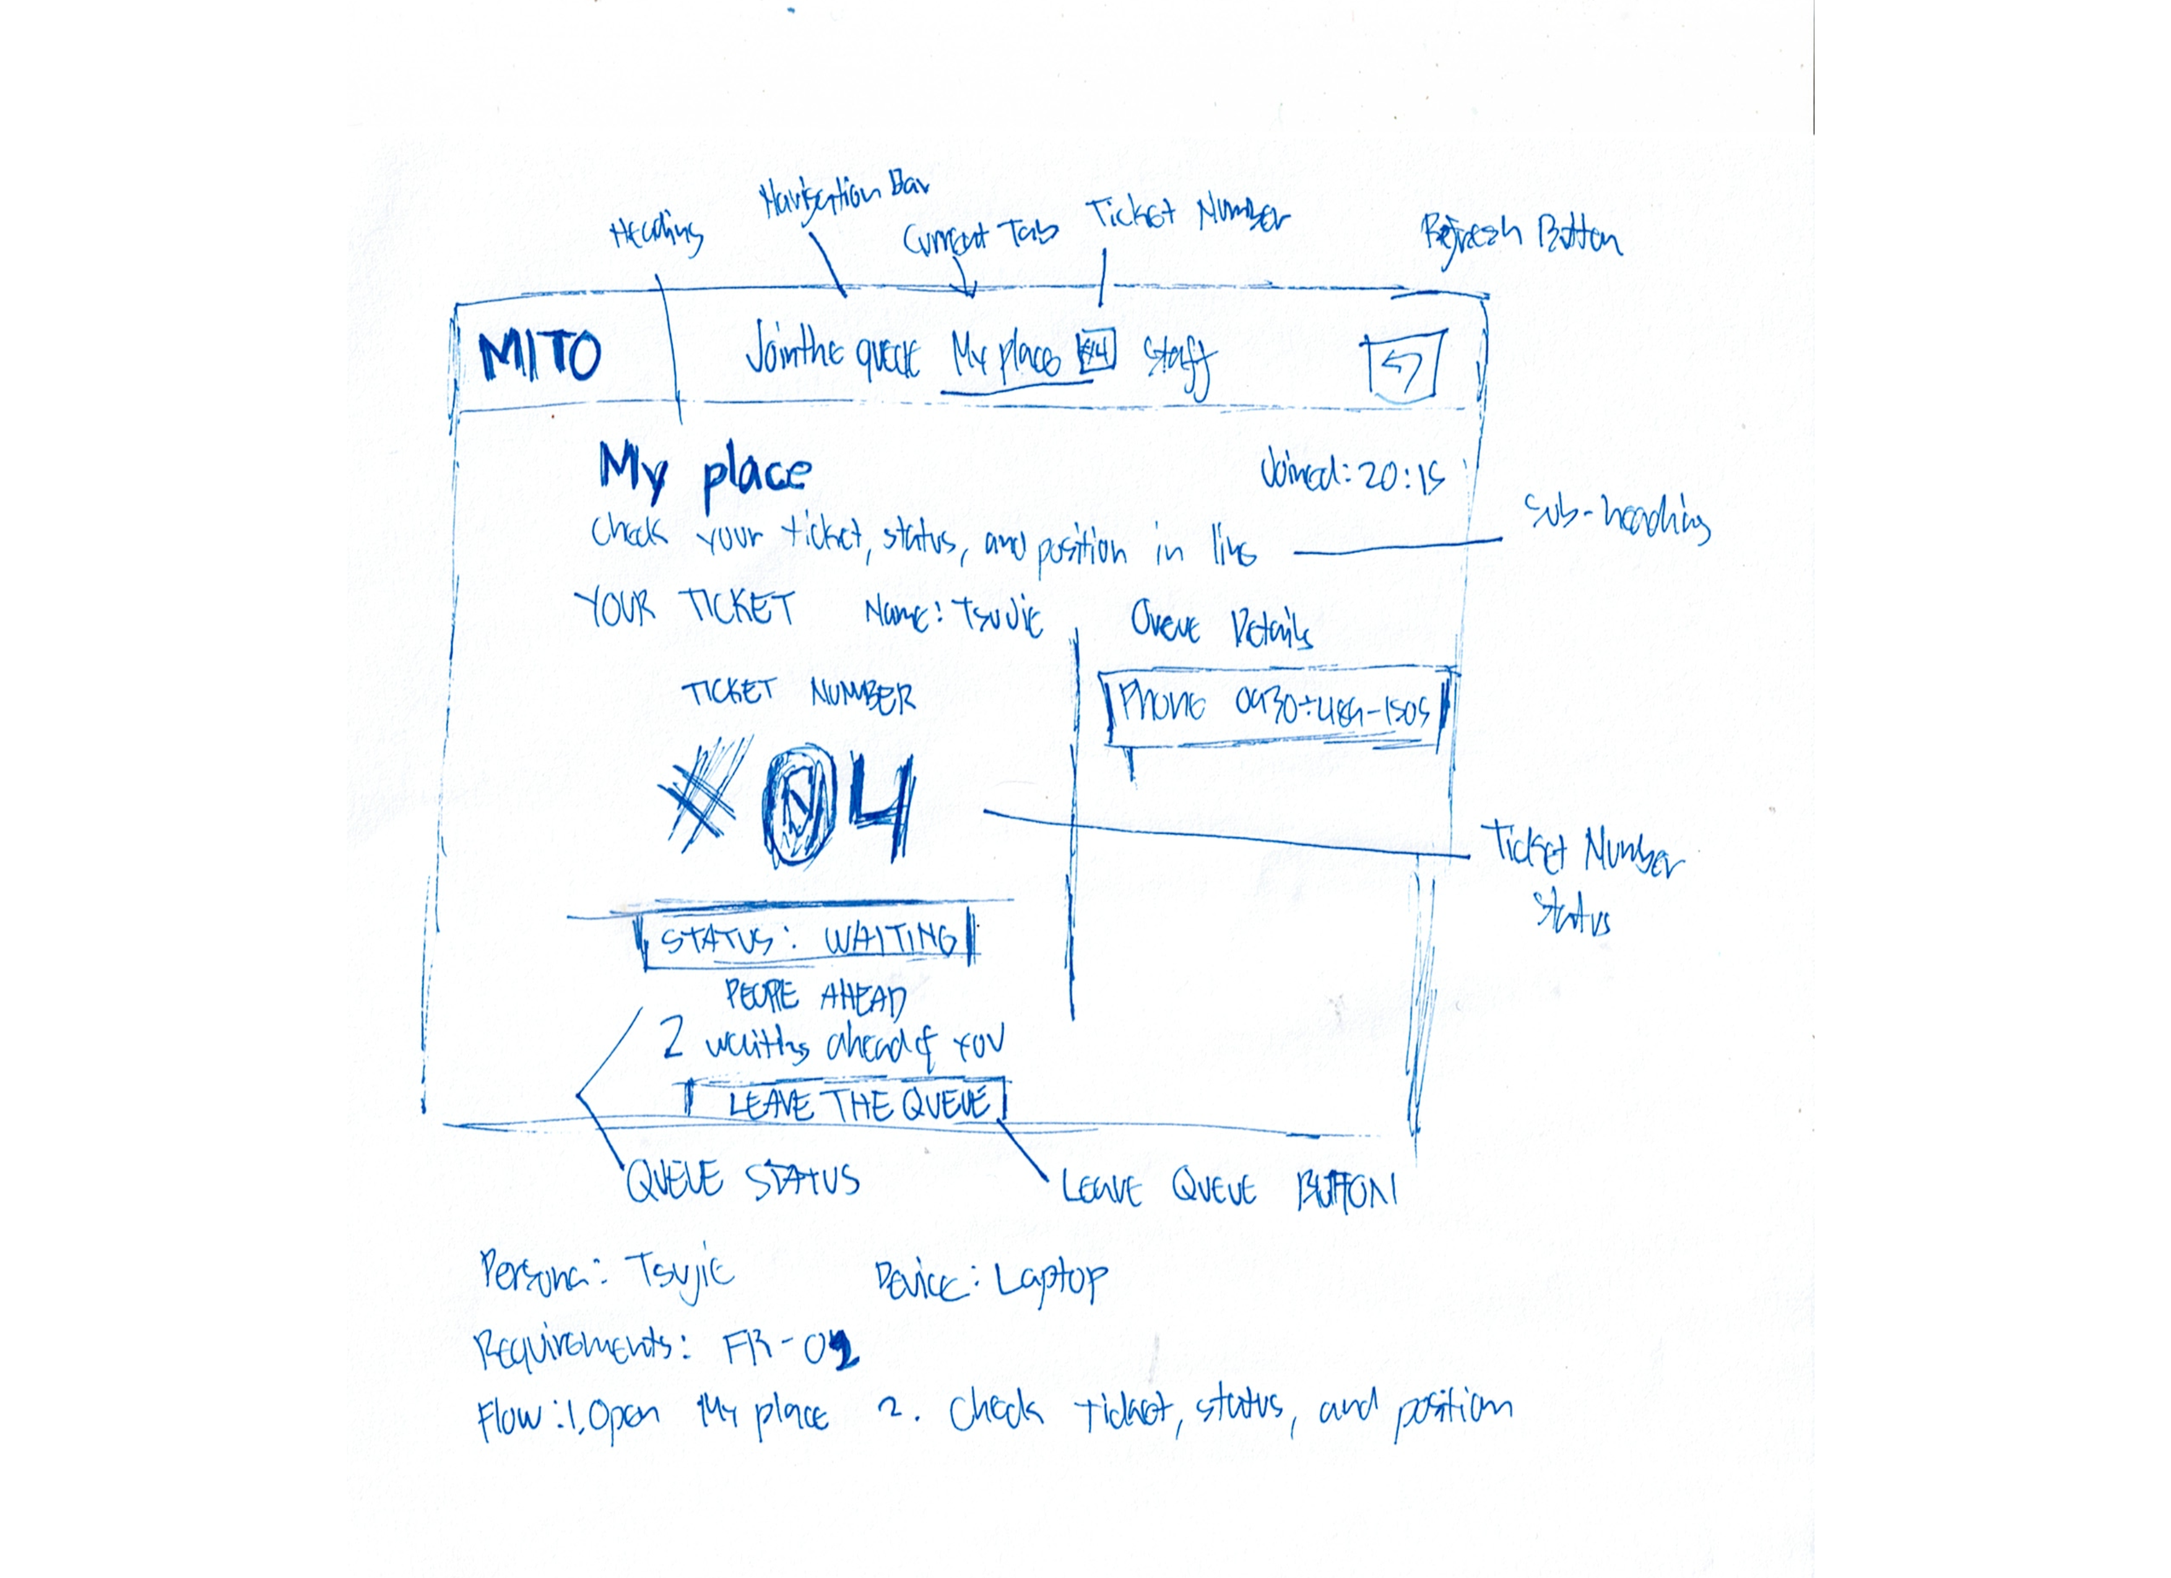
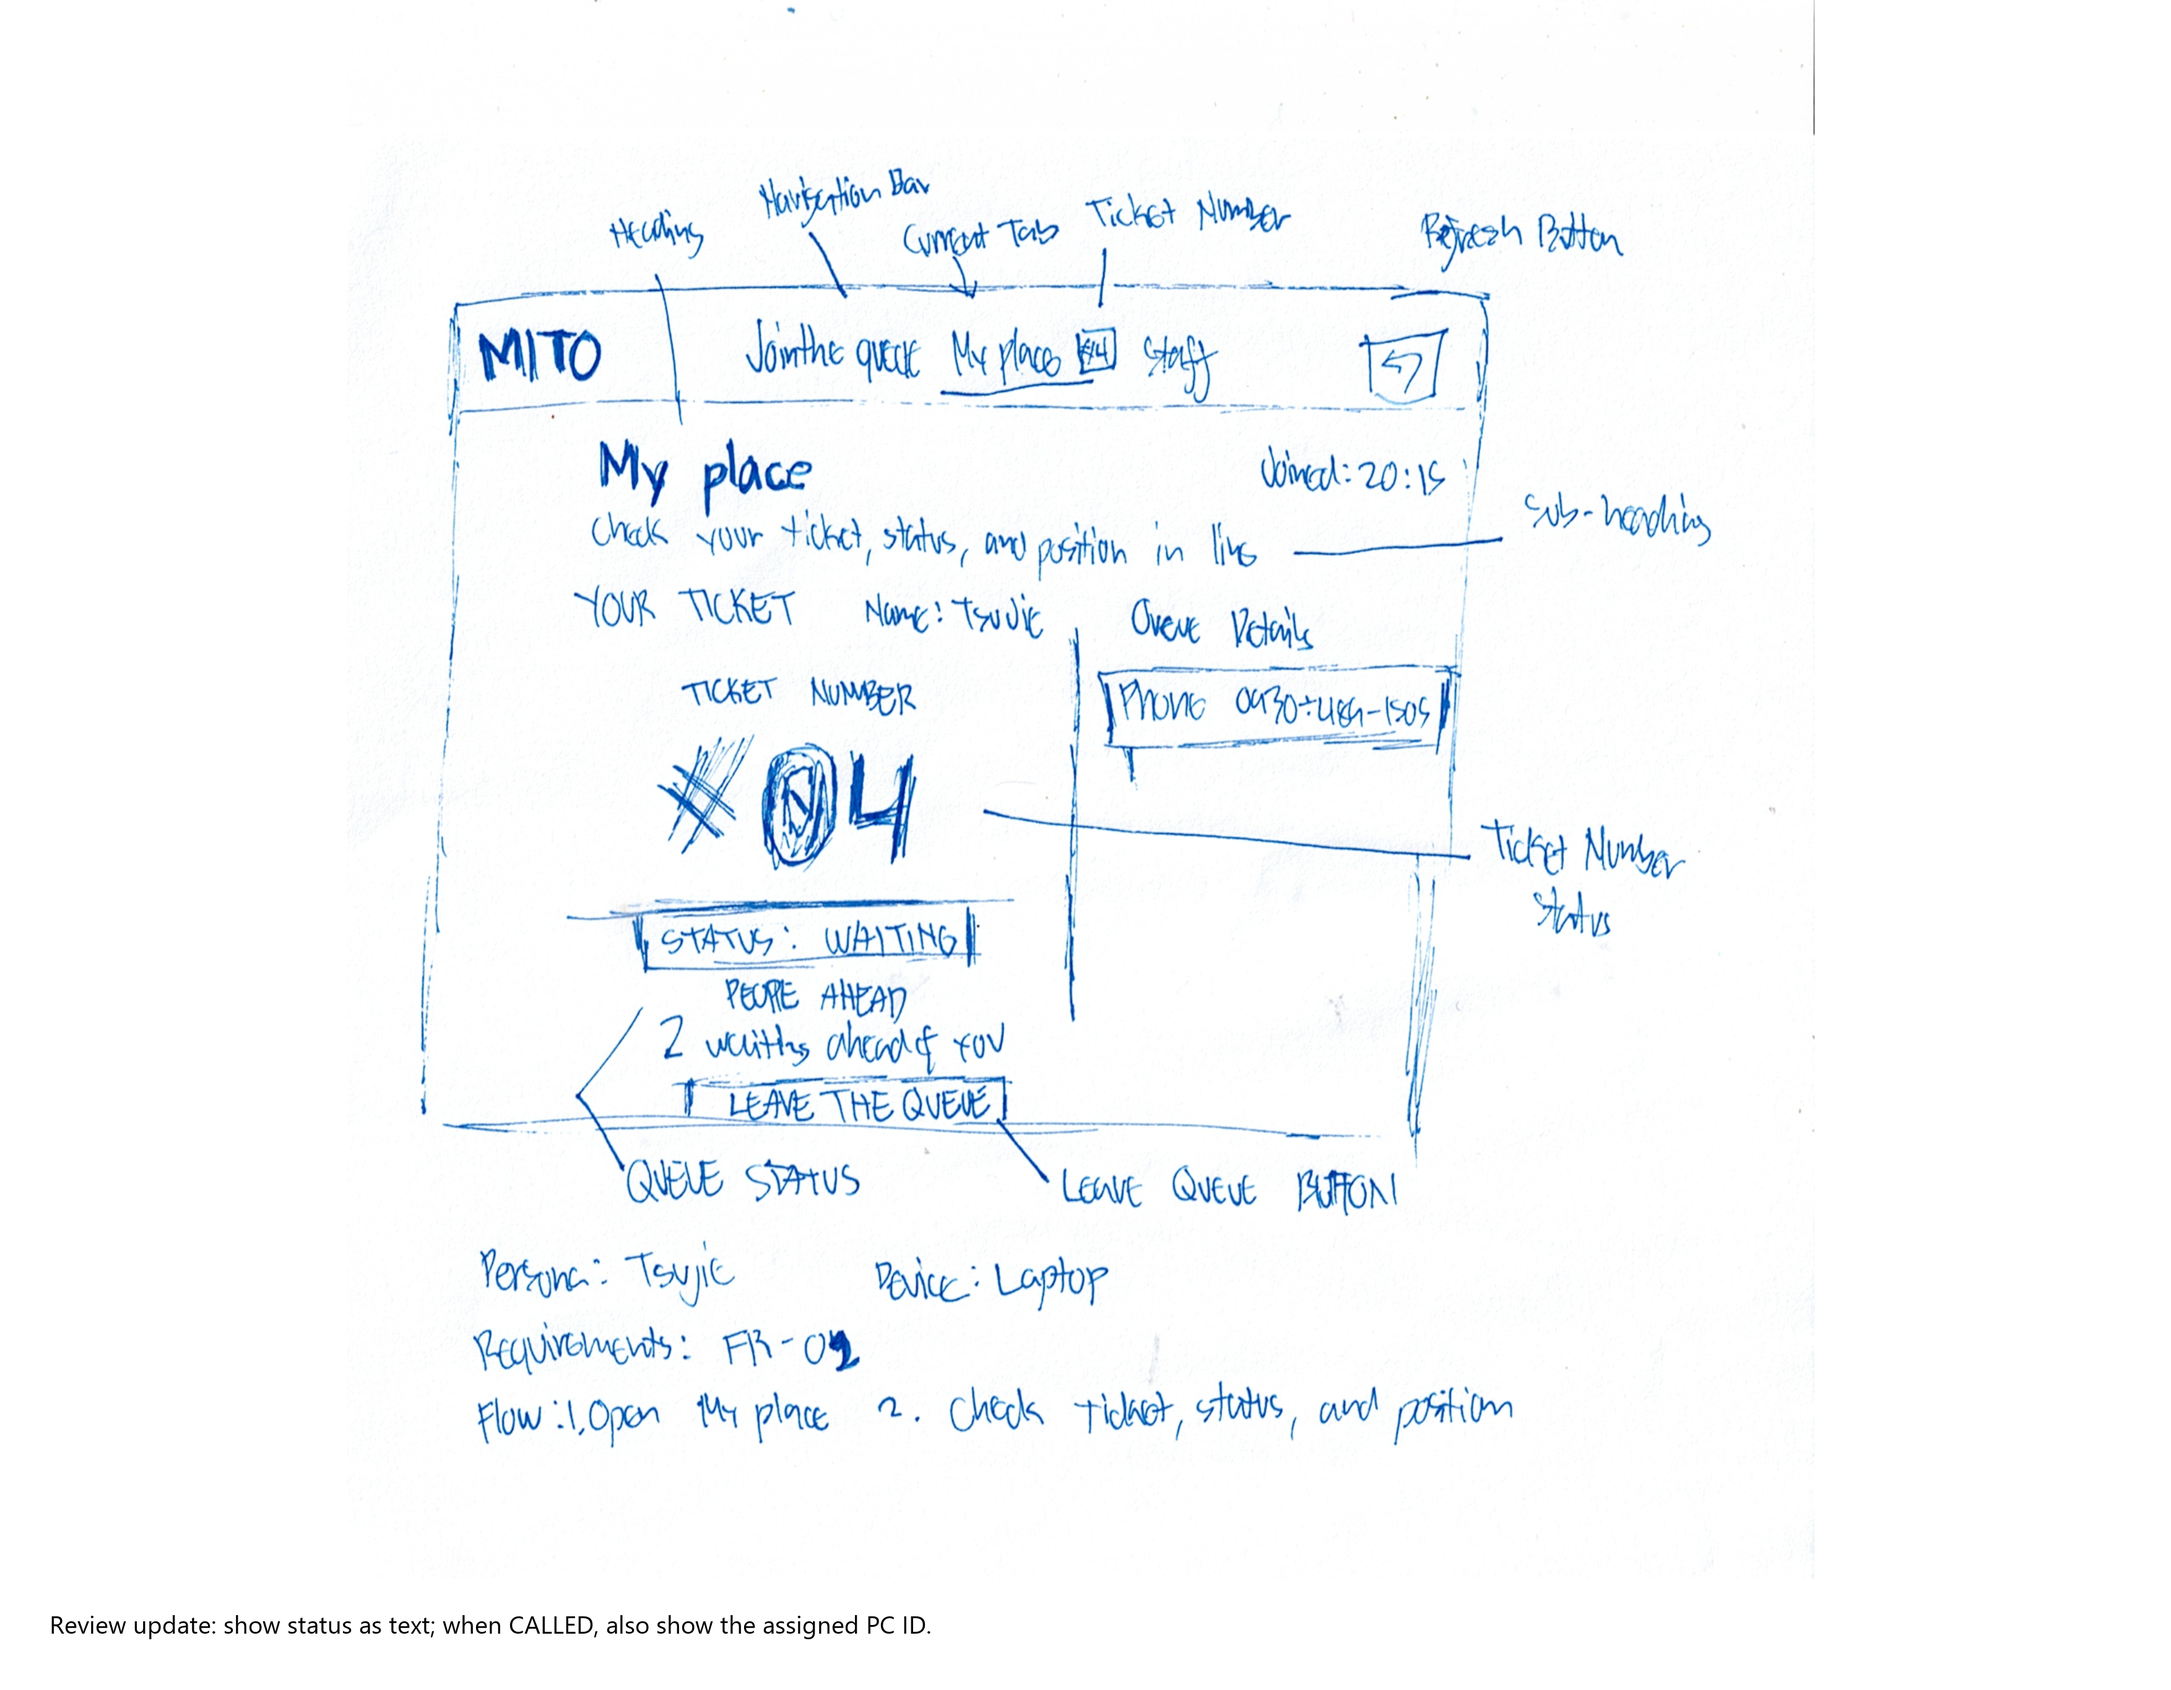
Add Week 3 self-review (#1)

diff --git a/docs/week3/feedback.md b/docs/week3/feedback.md
@@ -1,0 +1,25 @@
+# Week 3 self-review
+
+## Join the queue — Tsujie (phone and laptop)
+
+> **Works well:** Both frames show the number of open PCs and its update time before the form. Nickname is the main field and phone is optional, so Tsujie can quickly decide whether to join from her phone or laptop. This follows her rule to check availability before travelling.
+>
+> **Problem:** The frames use different availability wording, and a zero count needs to make clear that joining is still possible. Different labels weaken consistency and may leave Tsujie unsure whether the number means free PCs or stations ready for assignment.
+>
+> **Change:** Keep the availability-first layout, use **Open PCs** on both sizes, retain **Updated [time]**, and show **No PCs open — join below** when the count is zero. The updated wireframe images include this note.
+
+## My place — Tsujie (phone and laptop)
+
+> **Works well:** The ticket number, text status, and number of people ahead are the visual focus on both sizes. This follows Tsujie’s rule that she must be able to check her place while waiting away from the cafe.
+>
+> **Problem:** The sketches show only the WAITING state. If staff calls Tsujie, the page also needs to show that state and the assigned PC number; otherwise the most important change is not visible.
+>
+> **Change:** Keep the layout and annotate both frames so the status remains text and a CALLED ticket shows its assigned PC ID. In the called state, replace the people-ahead message with a clear instruction to go to the assigned PC. The updated wireframe images include the assigned-PC note.
+
+## Staff dashboard — Ethan (phone and laptop)
+
+> **Works well:** The designs show an ordered individual queue, station IDs with FREE/BUSY states, and actions to serve or mark a no-show. This follows Ethan’s rule to scan availability and the waiting list quickly.
+>
+> **Problem:** The phone’s table makes names, statuses, and actions cramped, while station controls are behind a separate tab. On the laptop, a Call action appears in a queue row as well as in the separate next-ticket panel. That duplication could lead Ethan to call a later ticket or assign a PC inconsistently. These are visibility and error-prevention problems.
+>
+> **Change:** The revised phone frame uses stacked ticket cards, shows station states on the same screen, and gives the next ticket one large Call next action. The revised laptop frame keeps the ordered table but uses one assignment panel for Call next; Serve and No-show stay with the currently called ticket. This keeps Ethan’s common action prominent and avoids competing call controls.
